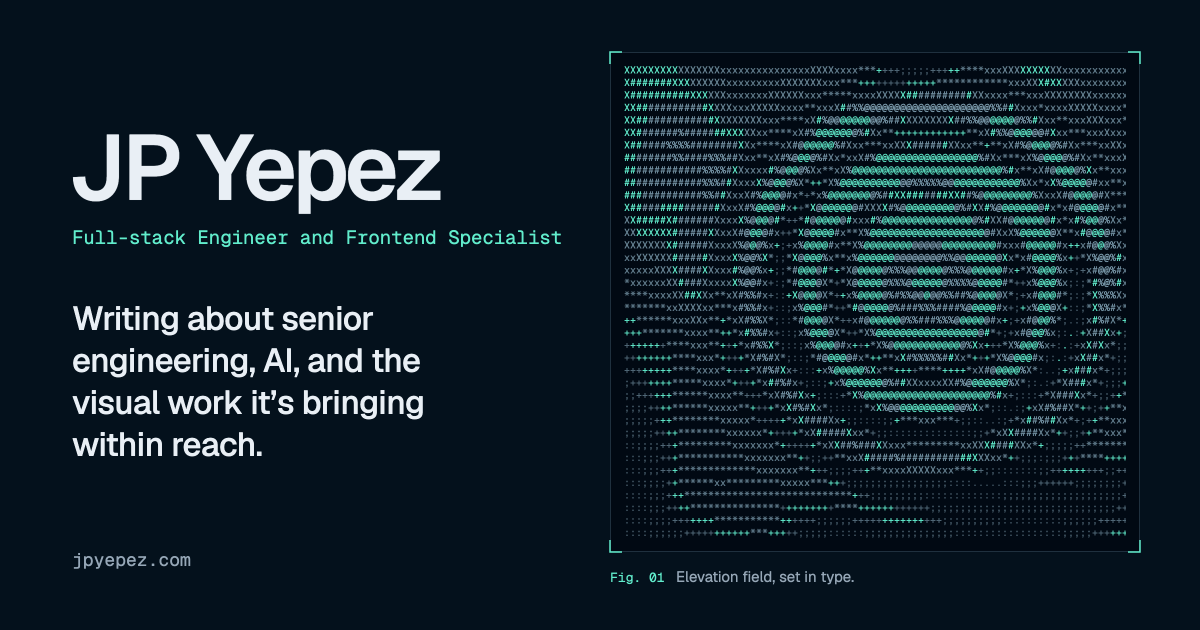
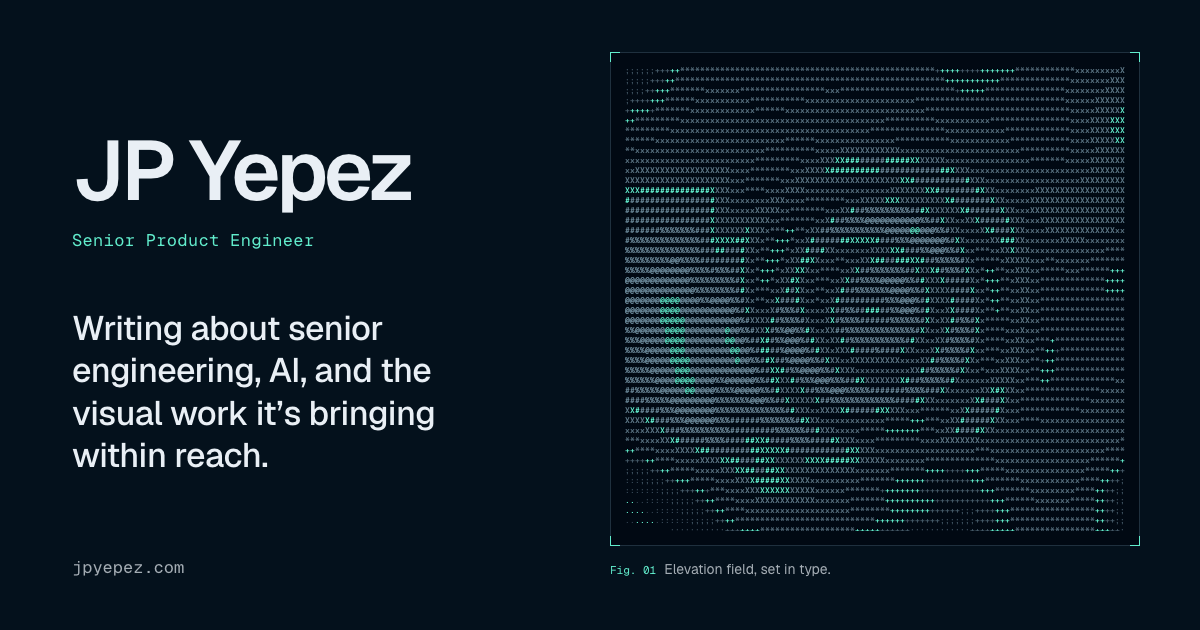
feat(home): retitle to Senior Product Engineer (#5)
Replace "Full-stack Engineer and Frontend Specialist" with "Senior Product
Engineer" in the page title, role line and preview alt text, and rewrite the
default meta description around building with AI coding agents.

Re-render public/og.png with the new title. The card is now generated by
scripts/og.ts (`bun run og`), which runs the real terrain code in headless
Chrome, so the next copy change is one command.

diff --git a/scripts/og.ts b/scripts/og.ts
@@ -1,0 +1,113 @@
+/// <reference types="bun" />
+// Renders public/og.png (1200×630): the home page's name, role and tagline beside the
+// terrain figure, caught mid-ripple. Uses the real terrain code and fonts, screenshotted
+// by headless Chrome. Run with `bun run og` after changing any of the copy below.
+import { mkdtempSync, rmSync, writeFileSync } from "node:fs";
+import { tmpdir } from "node:os";
+import { join, resolve } from "node:path";
+
+const NAME = "JP Yepez";
+const ROLE = "Senior Product Engineer";
+const TAGLINE = "Writing about senior engineering, AI, and the visual work it’s bringing within reach.";
+const CAPTION = "Elevation field, set in type.";
+const URL_TEXT = "jpyepez.com";
+
+// The pointer rests here to raise the ground, then clicks to start a ripple that is
+// captured mid-travel. Canvas pixels and milliseconds.
+const POINTER = { x: 250, y: 240 };
+const CLICK_AT_MS = 800;
+const RIPPLE_AGE_MS = 450;
+
+const CHROME = process.env.CHROME ?? "/Applications/Google Chrome.app/Contents/MacOS/Google Chrome";
+const root = resolve(import.meta.dir, "..");
+const out = join(root, "public/og.png");
+const font = (pkg: string, file: string) =>
+  `file://${join(root, "node_modules/@fontsource-variable", pkg, "files", file)}`;
+
+const entry = `
+  import { mountTerrain } from "${join(root, "src/features/home/terrain.ts")}";
+  // Headless Chrome doesn't run animation frames under virtual time; timers it does.
+  window.requestAnimationFrame = (cb) => setTimeout(() => cb(performance.now()), 16);
+  window.cancelAnimationFrame = clearTimeout;
+  const canvas = document.querySelector("canvas");
+  mountTerrain(canvas);
+  const at = () => {
+    const box = canvas.getBoundingClientRect();
+    return { clientX: box.left + ${POINTER.x}, clientY: box.top + ${POINTER.y}, bubbles: true };
+  };
+  document.fonts.ready.then(() => {
+    const surface = canvas.parentElement;
+    surface.dispatchEvent(new PointerEvent("pointermove", { ...at(), pointerType: "mouse" }));
+    setTimeout(() => surface.dispatchEvent(new MouseEvent("click", at())), ${CLICK_AT_MS});
+  });
+`;
+
+const dir = mkdtempSync(join(tmpdir(), "og-"));
+try {
+  writeFileSync(join(dir, "entry.js"), entry);
+  const build = await Bun.build({ entrypoints: [join(dir, "entry.js")], target: "browser" });
+  if (!build.success) throw new AggregateError(build.logs, "bundling the terrain failed");
+  const script = await build.outputs[0].text();
+
+  // Colours mirror the night theme in src/styles/global.css.
+  const html = `<!doctype html>
+<html><head><meta charset="utf-8"><style>
+  @font-face { font-family: "Geist Variable"; src: url("${font("geist", "geist-latin-wght-normal.woff2")}"); font-weight: 100 900; }
+  @font-face { font-family: "Geist Mono Variable"; src: url("${font("geist-mono", "geist-mono-latin-wght-normal.woff2")}"); font-weight: 100 900; }
+  :root {
+    --base-100: oklch(0.17 0.03 245); --base-200: oklch(0.135 0.03 245);
+    --base-300: oklch(0.3 0.035 245); --content: oklch(0.95 0.01 245);
+    --primary: oklch(0.86 0.13 175);
+  }
+  * { margin: 0; box-sizing: border-box; }
+  body {
+    width: 1200px; height: 630px; overflow: hidden; display: flex; gap: 48px; padding: 52px 60px 52px 72px;
+    background: var(--base-100); color: var(--content); font-family: "Geist Variable", sans-serif;
+    -webkit-font-smoothing: antialiased; font-synthesis: none;
+  }
+  .mono { font-family: "Geist Mono Variable", monospace; }
+  .text { flex: 0 0 490px; display: flex; flex-direction: column; justify-content: center; }
+  h1 { font-size: 84px; line-height: 0.95; font-weight: 600; letter-spacing: -0.045em; }
+  .role { margin-top: 18px; font-size: 17px; letter-spacing: 0.02em; color: var(--primary); }
+  .tagline { max-width: 440px; margin-top: 56px; font-size: 34px; line-height: 1.25; letter-spacing: -0.015em; font-weight: 500; }
+  .url { margin-top: auto; font-size: 17px; color: color-mix(in oklch, var(--content) 70%, transparent); }
+  figure { flex: 1; display: flex; flex-direction: column; gap: 14px; }
+  .surface { position: relative; flex: 1; border: 1px solid var(--base-300); border-radius: 2px; background: var(--base-200); }
+  canvas { position: absolute; inset: 14px; width: calc(100% - 28px); height: calc(100% - 28px); font-family: "Geist Mono Variable", monospace; }
+  .corner { position: absolute; width: 10px; height: 10px; border: 0 solid var(--primary); }
+  figcaption { font-size: 14px; color: color-mix(in oklch, var(--content) 70%, transparent); }
+  figcaption .mono { font-size: 11px; color: var(--primary); margin-right: 8px; }
+</style></head><body>
+  <section class="text">
+    <div style="margin-top: auto">
+      <h1>${NAME}</h1>
+      <p class="role mono">${ROLE}</p>
+      <p class="tagline">${TAGLINE}</p>
+    </div>
+    <p class="url mono">${URL_TEXT}</p>
+  </section>
+  <figure>
+    <div class="surface">
+      <canvas></canvas>
+      <span class="corner" style="top:-1px;left:-1px;border-top-width:1px;border-left-width:1px"></span>
+      <span class="corner" style="top:-1px;right:-1px;border-top-width:1px;border-right-width:1px"></span>
+      <span class="corner" style="bottom:-1px;left:-1px;border-bottom-width:1px;border-left-width:1px"></span>
+      <span class="corner" style="bottom:-1px;right:-1px;border-bottom-width:1px;border-right-width:1px"></span>
+    </div>
+    <figcaption><span class="mono">Fig. 01</span>${CAPTION}</figcaption>
+  </figure>
+  <script>${script}</script>
+</body></html>`;
+  const page = join(dir, "card.html");
+  writeFileSync(page, html);
+
+  const chrome = Bun.spawnSync([
+    CHROME, "--headless=new", "--hide-scrollbars", "--force-device-scale-factor=1",
+    "--window-size=1200,630", "--allow-file-access-from-files",
+    `--virtual-time-budget=${CLICK_AT_MS + RIPPLE_AGE_MS}`, `--screenshot=${out}`, `file://${page}`,
+  ], { stderr: "pipe" });
+  if (chrome.exitCode !== 0) throw new Error(`Chrome failed:\n${chrome.stderr.toString()}`);
+  console.log(`Wrote ${out}`);
+} finally {
+  rmSync(dir, { recursive: true, force: true });
+}

diff --git a/docs/architecture.md b/docs/architecture.md
@@ -42,6 +42,7 @@ Asymmetry rationale: blog content is uniform, so a collection earns its abstract
 ## Conventions
 
 - Per-page metadata via `Base.astro` props (`title`, `description`); OG and Twitter tags fall back to those.
+- `public/og.png` is the social preview card, rendered from the real terrain code by `scripts/og.ts`. When the name, role or tagline changes, update the copy at the top of the script and run `bun run og` (needs Google Chrome).
 - `Base.astro`'s `column` prop (`home`, `prose` default, `gallery`) sets the header width to match the page's content column, so their edges line up. Pass it when a page uses a column other than `max-w-xl`.
 - No client-side router; full page loads between routes (Astro default).
 - No global state. Components are mostly server-rendered with small `<script>` islands where interactivity is needed (e.g. contact form, home terrain canvas).

diff --git a/.work/CONTEXT.md b/.work/CONTEXT.md
@@ -76,7 +76,7 @@ Committed channels (2026-05-15):
 - *Explicitly not committed:* NZ Slacks/Discords (too time-sinky for now).
 
 ### Site Framing
-The site is primarily an **engineer's portfolio** (full-stack/frontend, React,
+The site is primarily an **engineer's portfolio** (product engineering, React,
 AI tooling), and its words stay engineer-first: name, role, theses, writing.
 The home page *looks* like [[creative-coding]]: it opens on an interactive
 visual hero that demonstrates Thesis B instead of describing it. The
